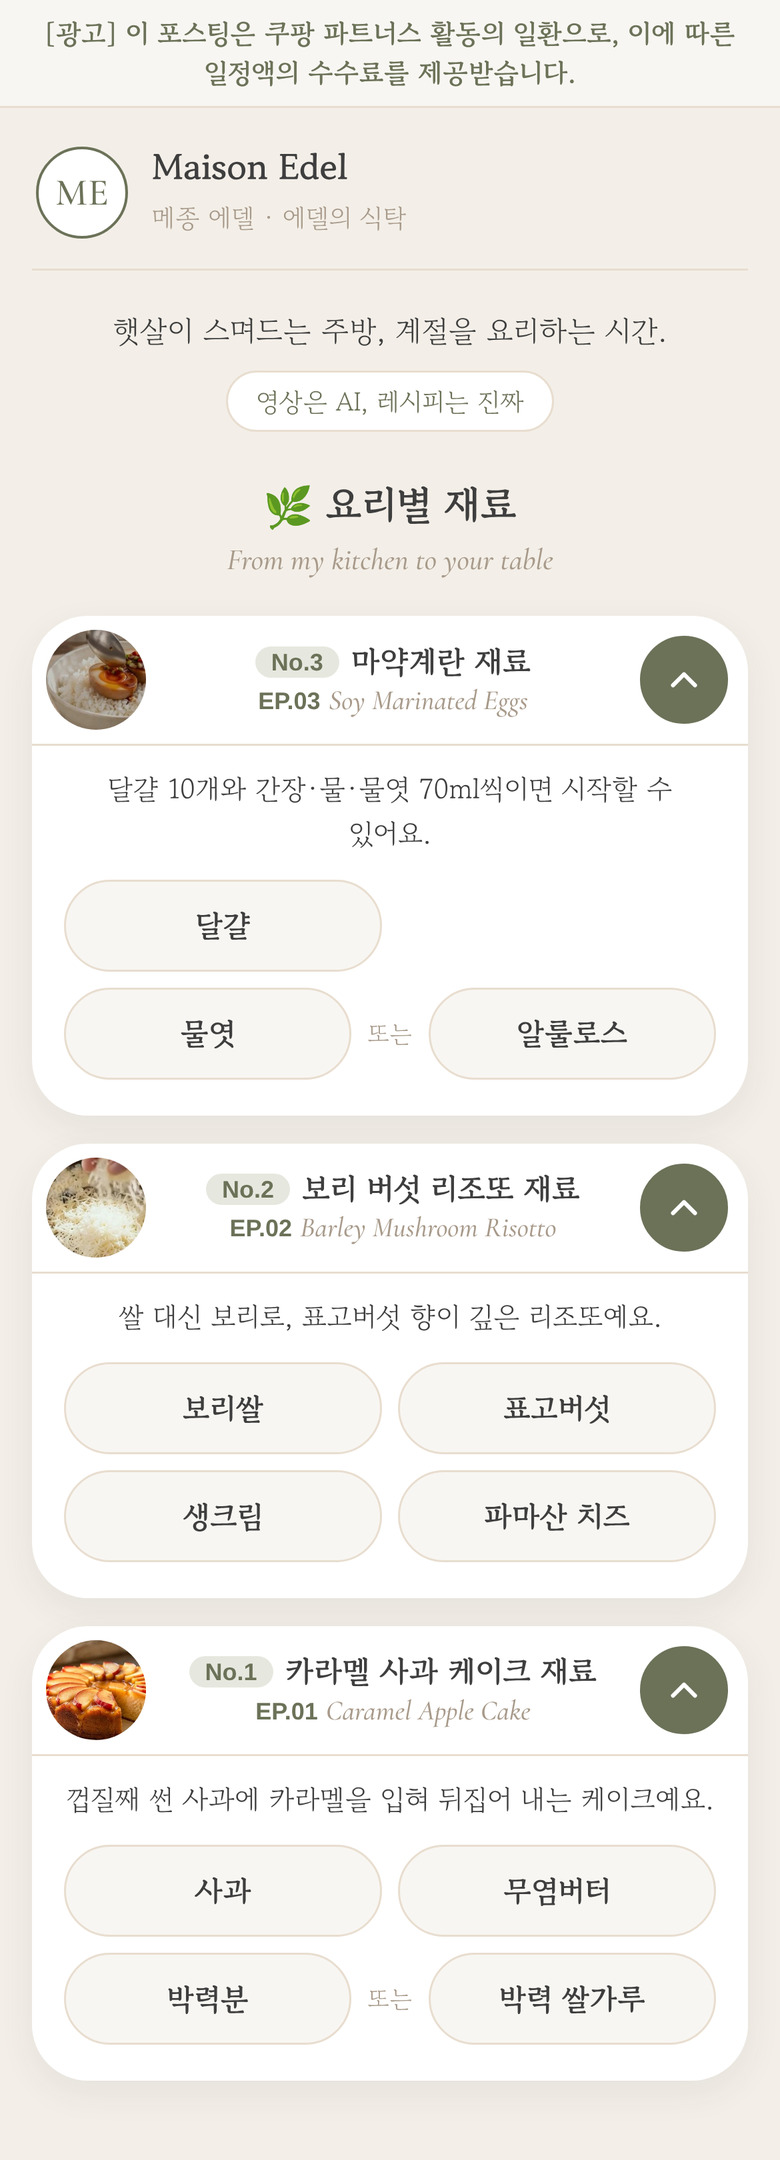
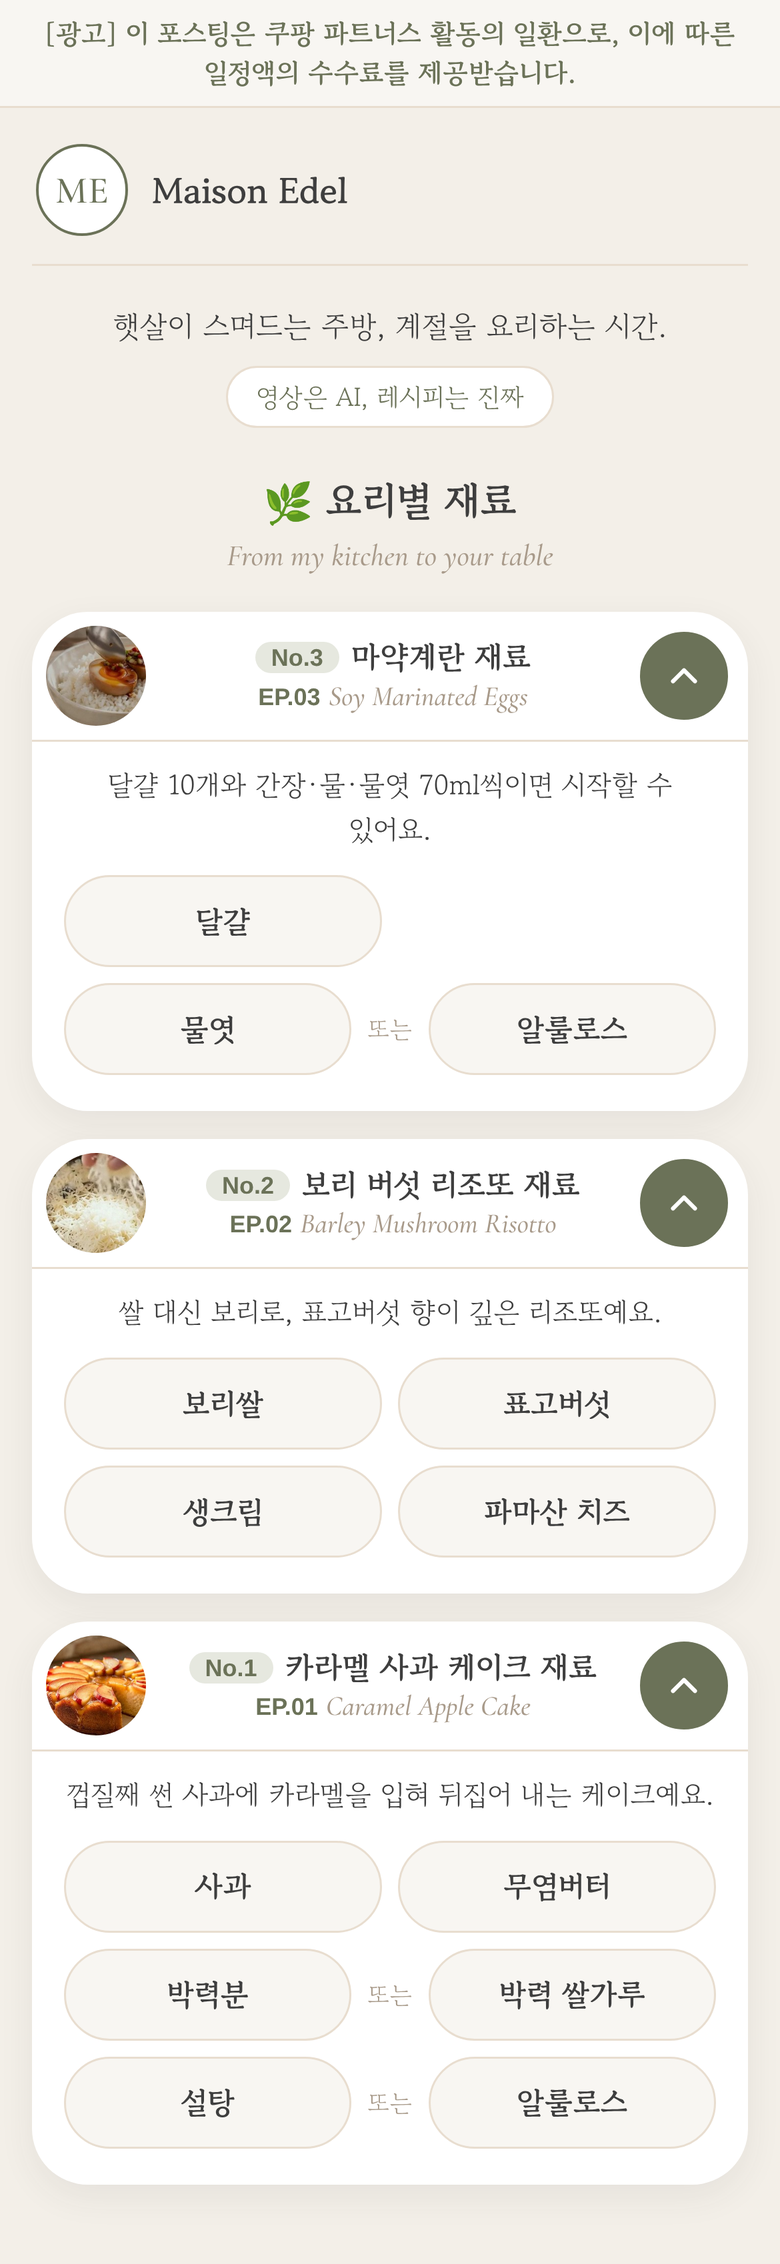
장보기 반영: 리조또 링크 2개 바꿈, 케이크 설탕 또는 알룰로스
Claude-Session: https://claude.ai/code/session_01Ethqw5r7mmktrKzGmpSNVy

diff --git a/company/초안/메종에델-장보기/장보기-재료.js b/company/초안/메종에델-장보기/장보기-재료.js
@@ -5,7 +5,7 @@
 //       쿠팡 링크가 비어 있거나 보이기가 꺼진 재료는 페이지에 보이지 않는다.
 //       재료의 "요리"는 요리 목록의 "요리" 이름과 똑같아야 한다.
 //       묶음: 같은 요리에서 숫자가 같은 재료끼리 "둘 중 하나"로 한 줄에 보인다 (재료 표 "또는 묶음" 칸). 없으면 따로.
-// 마지막 반영: 2026-11-02 (요리 3개, 재료 13개 중 보이기 11개, 쿠팡 링크 11개, 둘 중 하나 묶음 2개)
+// 마지막 반영: 2026-11-02 (요리 3개, 재료 14개 중 보이기 13개, 쿠팡 링크 13개, 둘 중 하나 묶음 3개)
 window.MAISON_EDEL_DISHES = [
   { 번호: 3, 요리: "마약계란",         EP: "EP.03", 영어: "Soy Marinated Eggs",      사진: "사진/작은-마약계란.jpg", 소개: "달걀 10개와 간장·물·물엿 70ml씩이면 시작할 수 있어요.", 순서: 3 },
   { 번호: 2, 요리: "보리 버섯 리조또", EP: "EP.02", 영어: "Barley Mushroom Risotto", 사진: "사진/작은-리조또.jpg",   소개: "쌀 대신 보리로, 표고버섯 향이 깊은 리조또예요.",         순서: 2 },
@@ -19,11 +19,12 @@ window.MAISON_EDEL_SHOP = [
   { 요리: "마약계란", 이름: "알룰로스", 링크: "https://link.coupang.com/a/il3Yuq8C9Q", 보이기: true, 순서: 3, 묶음: 2 },
   { 요리: "보리 버섯 리조또", 이름: "보리쌀", 링크: "https://link.coupang.com/a/il4bpUGMP6", 보이기: true, 순서: 1 },
   { 요리: "보리 버섯 리조또", 이름: "표고버섯", 링크: "https://link.coupang.com/a/il4iJkpoHc", 보이기: true, 순서: 2 },
-  { 요리: "보리 버섯 리조또", 이름: "생크림", 링크: "https://link.coupang.com/a/il4B2u4trw", 보이기: true, 순서: 3 },
-  { 요리: "보리 버섯 리조또", 이름: "파마산 치즈", 링크: "https://link.coupang.com/a/il4rg54zYY", 보이기: true, 순서: 4 },
+  { 요리: "보리 버섯 리조또", 이름: "생크림", 링크: "https://link.coupang.com/a/imxAD0C1AG", 보이기: true, 순서: 3 },
+  { 요리: "보리 버섯 리조또", 이름: "파마산 치즈", 링크: "https://link.coupang.com/a/imxgPRpYLQ", 보이기: true, 순서: 4 },
   { 요리: "카라멜 사과 케이크", 이름: "사과", 링크: "https://link.coupang.com/a/il3uyUeQLI", 보이기: true, 순서: 1 },
   { 요리: "카라멜 사과 케이크", 이름: "무염버터", 링크: "https://link.coupang.com/a/il3Muxy25Q", 보이기: true, 순서: 2 },
   { 요리: "카라멜 사과 케이크", 이름: "박력분", 링크: "https://link.coupang.com/a/il2Zk8W03E", 보이기: true, 순서: 3, 묶음: 1 },
   { 요리: "카라멜 사과 케이크", 이름: "박력 쌀가루", 링크: "https://link.coupang.com/a/il3k1Dn9YO", 보이기: true, 순서: 3, 묶음: 1 },
-  { 요리: "카라멜 사과 케이크", 이름: "설탕", 링크: "", 보이기: false, 순서: 4 }
+  { 요리: "카라멜 사과 케이크", 이름: "설탕", 링크: "https://link.coupang.com/a/imwa69tpKu", 보이기: true, 순서: 4, 묶음: 4 },
+  { 요리: "카라멜 사과 케이크", 이름: "알룰로스", 링크: "https://link.coupang.com/a/imwkMfIaXI", 보이기: true, 순서: 4, 묶음: 4 }
 ];

diff --git a/company/초안/메종에델-장보기/근거-링크목록.md b/company/초안/메종에델-장보기/근거-링크목록.md
@@ -150,6 +150,7 @@
 ## 8. 반영 기록
 | 날짜 | 무엇 | 링크 들어간 재료 |
 |---|---|---|
+| 2026-11-02 | 노션 고침 반영: 리조또 생크림·파마산 치즈 링크 바뀜, 케이크 설탕 다시 보임 + 알룰로스 추가(설탕 또는 알룰로스, 묶음 4). 빈 줄 1개(보이기 꺼짐)는 넣지 않음 | 13개 |
 | 2026-11-02 | 회장님이 쿠팡 링크 10개 추가 → 노션 그대로 반영: 마약계란 물엿·알룰로스(묶음 2), 리조또 4개, 케이크 사과·무염버터·박력분·박력 쌀가루(묶음 1). 이름 빈 줄 2개(보이기 꺼짐)는 넣지 않음. 링크 11개 모두 link.coupang.com/a/… · 공개본 먼저 → 원본 → diff 같음 → 공개 확인 | 11개 (달걀, 물엿, 알룰로스, 보리쌀, 표고버섯, 생크림, 파마산 치즈, 사과, 무염버터, 박력분, 박력 쌀가루) |
 | 2026-11-02 | 회장님 "장보기 반영해줘" → 노션 두 표대로: 간장·설탕 보이기 끔, 마약계란 3번 재료 물엿 → 알룰로스(링크 없음), 또는 묶음 없음. 공개본 shop-data.js 먼저 → 원본 옮김 → diff 같음. 공개 파일 설명 줄의 "노션" 글자도 뺌 | 달걀 1개 (마약계란) |
 | 2026-11-02 | 케이크 추가(요리 3개, 재료 11개) — 링크는 그대로 달걀 1개 | 달걀 1개 |

diff --git a/company/업무일지.md b/company/업무일지.md
@@ -84,3 +84,4 @@
 | 2026-11-02 | 장보기 "둘 중 하나" 재료: 노션 "또는 묶음" 칸, 페이지에 [물엿] 또는 [올리고당] 한 줄 표시 (원본 푸시, 공개본은 커밋만) | 커머스팀 | 사장 확인 뒤 공개본 푸시 |
 | 2026-11-02 | 장보기 반영: 간장·설탕 숨김, 물엿→알룰로스(노션 그대로), 공개본 푸시·실제 주소 확인 | 커머스팀 | 회장님 링크 대기 |
 | 2026-11-02 | 장보기 반영: 쿠팡 링크 11개·또는 묶음 2개 공개 (https://maison-edel.netlify.app) | 커머스팀 | 월 1회 실적 캡처 → 회계팀 |
+| 2026-11-02 | 장보기 반영: 리조또 링크 2개 교체, 케이크 설탕·알룰로스(또는) 추가 → 링크 13개 공개 | 커머스팀 | — |
